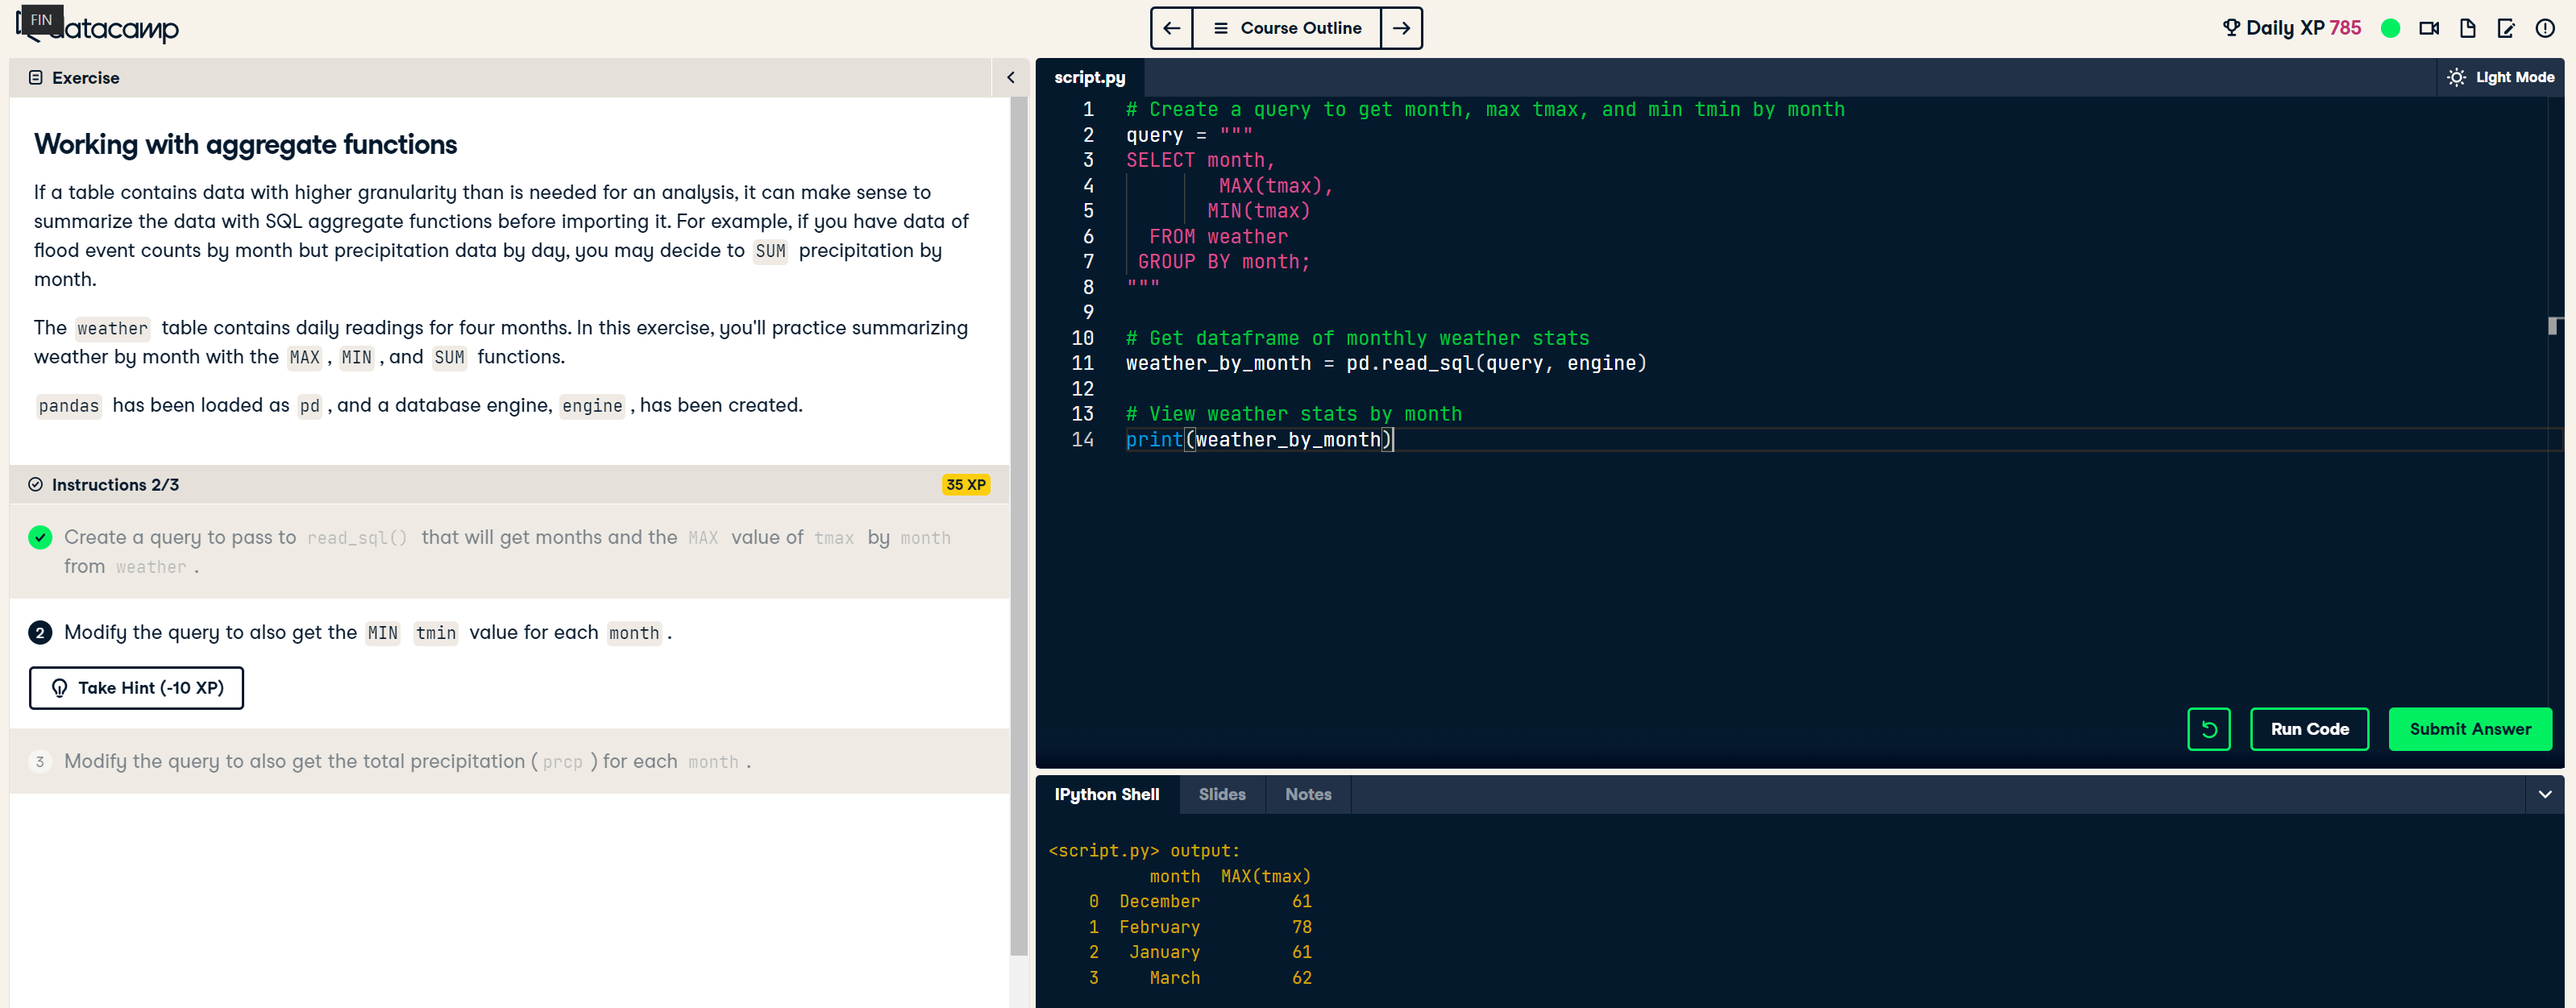
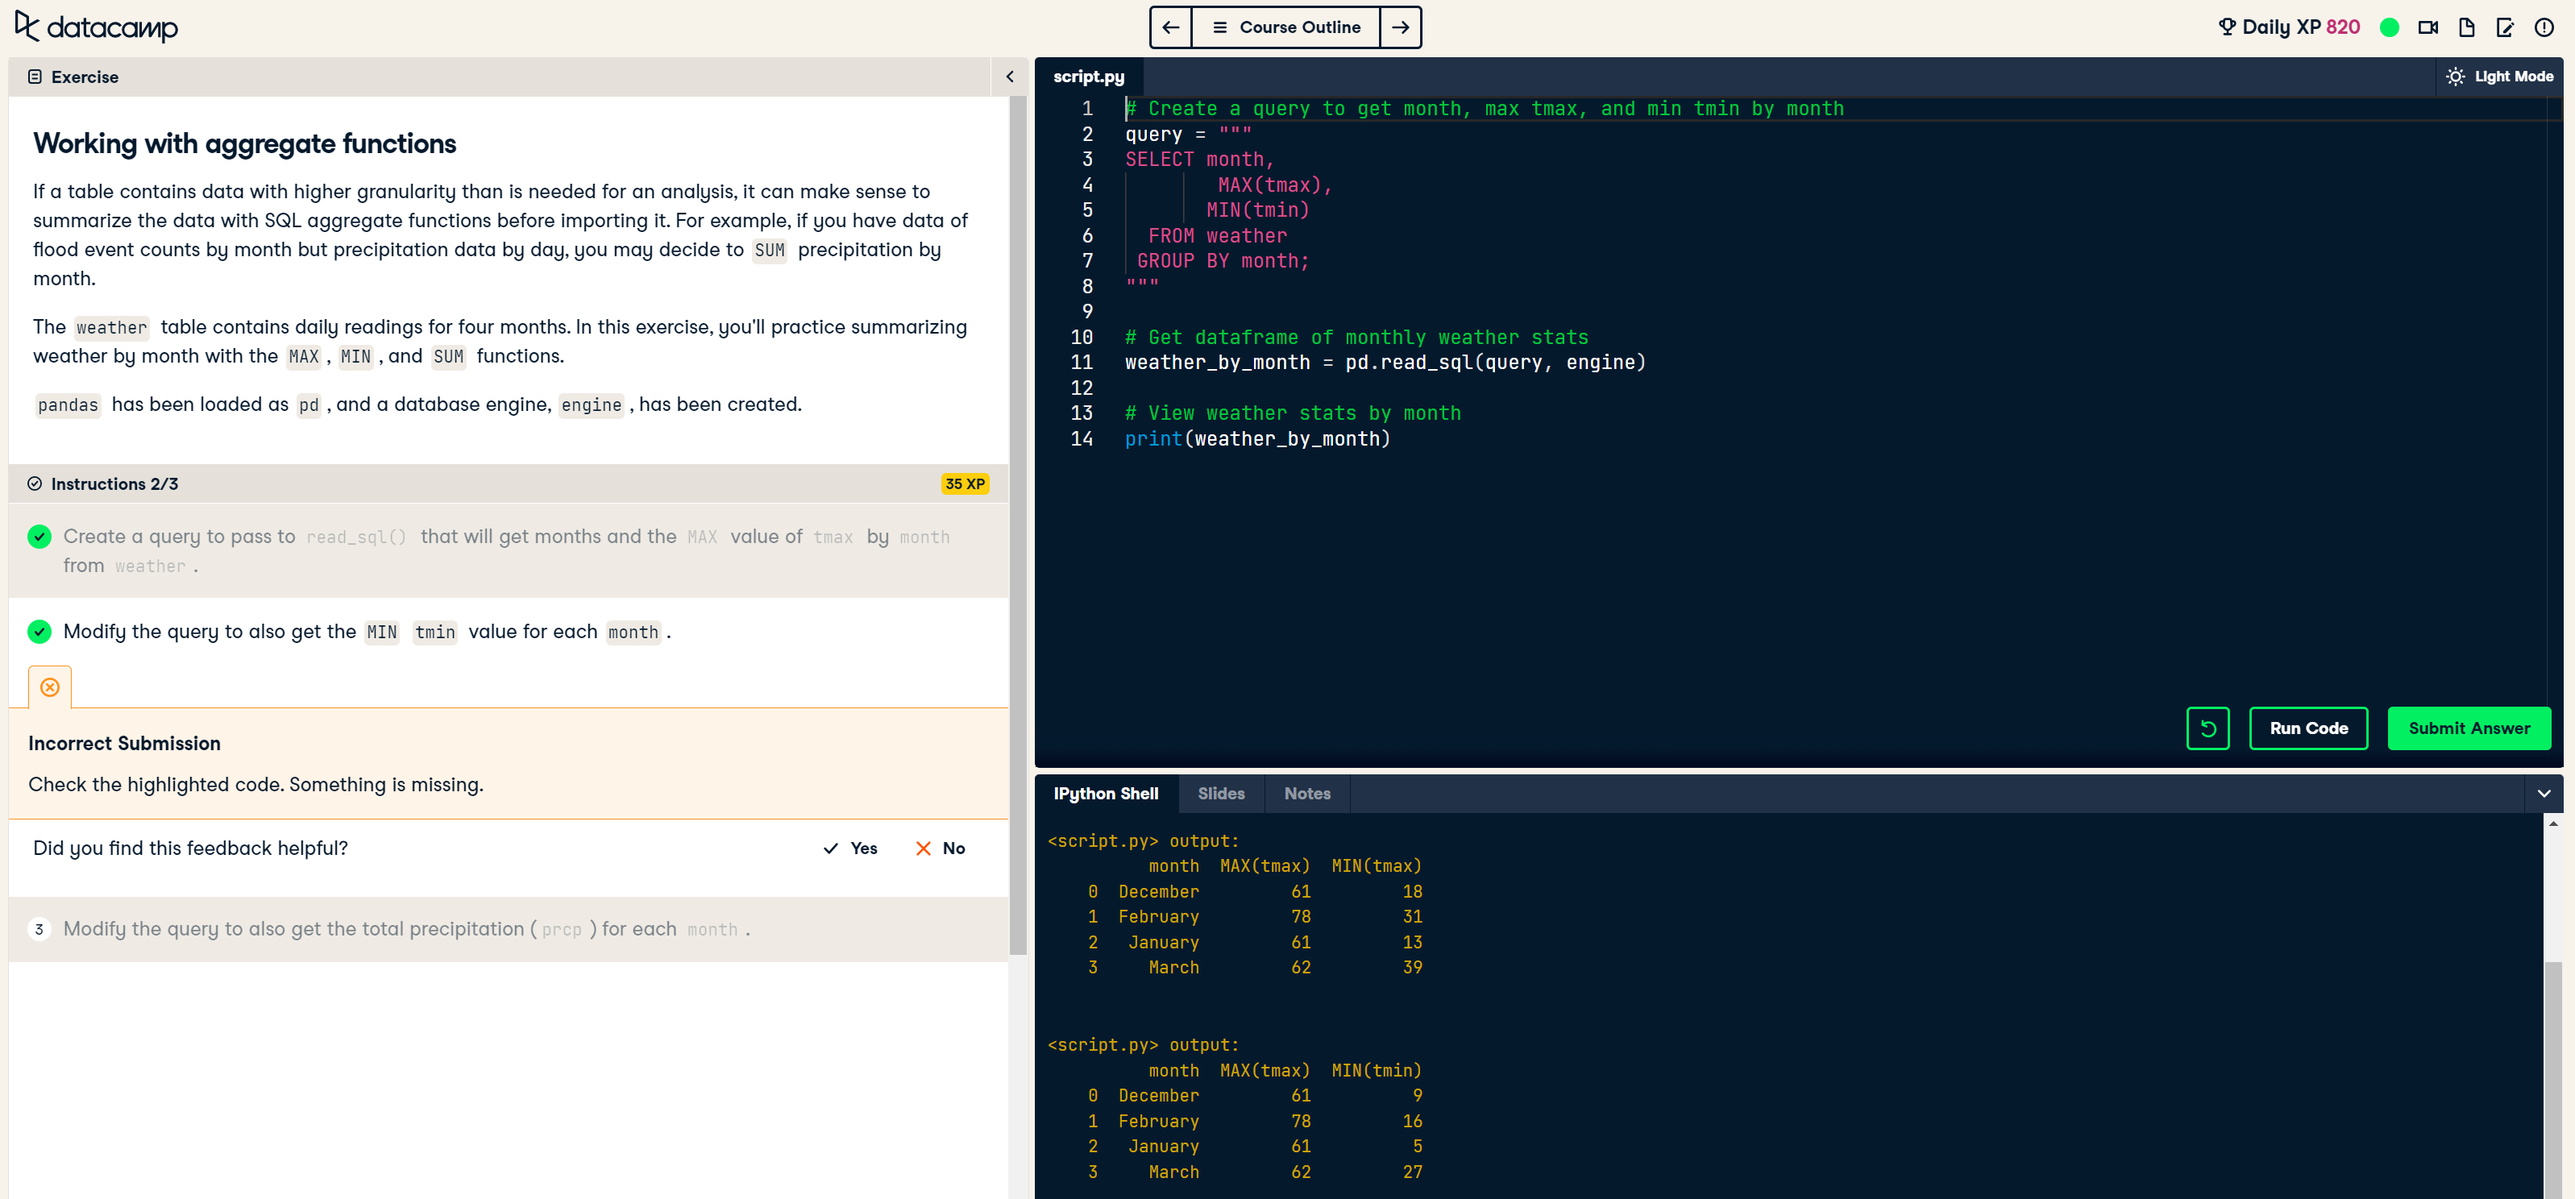
docs: Complete working with agg func ex
Complete working with aggregate function exercises.

Changed region(s): [[0.0, 0.0, 1.0, 1.0], [0.4338, 0.4053, 0.5887, 0.4676], [0.9915, 0.3118, 1.0, 0.3429]]

diff --git a/streamlined-data-ingestion-with-pandas/36. working-with-aggregate-functions-3.py b/streamlined-data-ingestion-with-pandas/36. working-with-aggregate-functions-3.py
@@ -1,0 +1,34 @@
+# Create query to get temperature and precipitation by month
+query = """
+SELECT month, 
+        MAX(tmax), 
+        MIN(tmin),
+        ____
+  FROM weather 
+ GROUP BY month;
+"""
+
+# Get dataframe of monthly weather stats
+weather_by_month = pd.read_sql(query, engine)
+
+# View weather stats by month
+print(weather_by_month)
+
+
+# ----------- #
+
+# Create query to get temperature and precipitation by month
+query = """
+SELECT month, 
+        MAX(tmax), 
+        MIN(tmin),
+        SUM(prcp)
+  FROM weather 
+ GROUP BY month;
+"""
+
+# Get dataframe of monthly weather stats
+weather_by_month = pd.read_sql(query, engine)
+
+# View weather stats by month
+print(weather_by_month)

diff --git a/streamlined-data-ingestion-with-pandas/35. working-with-aggregate-functions-02.py b/streamlined-data-ingestion-with-pandas/35. working-with-aggregate-functions-02.py
@@ -19,7 +19,7 @@ print(weather_by_month)
 query = """
 SELECT month, 
 	   MAX(tmax), 
-       MIN(tmax)
+       MIN(tmin)
   FROM weather 
  GROUP BY month;
 """
